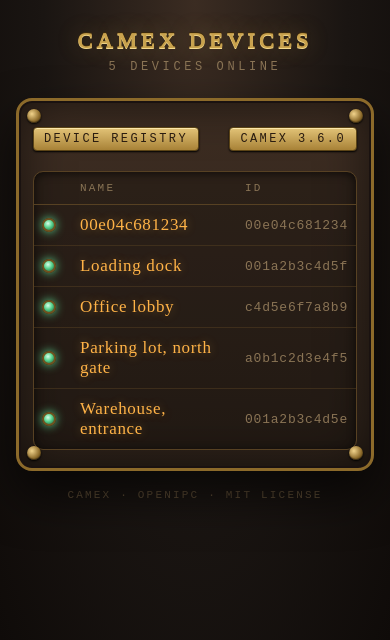
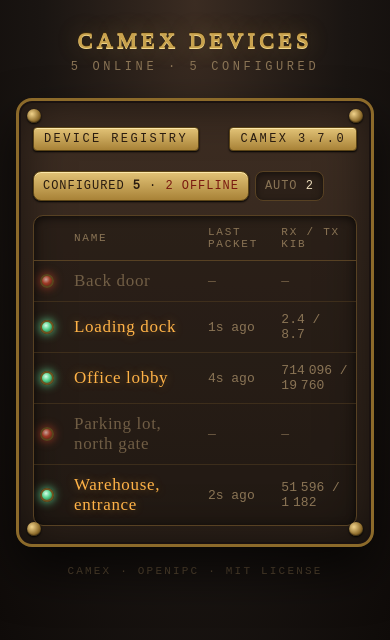
Start page details: docs, screenshots, 3.7.0 (#110)

diff --git a/src/version.h b/src/version.h
@@ -13,7 +13,7 @@
 #define CAMEX_VERSION_H
 
 #ifndef CAMEX_VERSION
-#define CAMEX_VERSION "3.6.0"
+#define CAMEX_VERSION "3.7.0"
 #endif
 
 #endif /* CAMEX_VERSION_H */

diff --git a/docs/nginx.md b/docs/nginx.md
@@ -227,11 +227,23 @@ map $host $camex_upstream {
 ## Start page
 
 `camex --status --format nginx-index --domain openipc.click` prints a static
-HTML page of the live cameras: one row each with its name, ID and tunnel
-address, the name linked to `//<camera ID>.openipc.click/` (no scheme, so the
-link works over HTTP and HTTPS alike).
+HTML page of the cameras in two lists, switched with the tabs at the top:
 
-| Desktop                                    | Phone (the address column is hidden)                        |
+- **Configured**: every `[client ID]` block in the server's file, connected or
+  not. A camera that is not connected has a red lamp and no link, so a missing
+  one shows at once; the tab counts them ("Configured 5 · 2 offline").
+- **Auto**: the connected cameras with no `[client ID]` block, which got their
+  address from the auto pool.
+
+Each row has the camera's name linked to `//<camera ID>.openipc.click/` (no
+scheme, so the link works over HTTP and HTTPS alike), its ID and tunnel
+address, and as in `camex --status`: **Connected** (how long it has been on
+this connection), **Last packet**, **Handshake** (how long ago, and how many
+it has had) and **RX / TX** in KiB. The page opens Configured when there are
+blocks in the file, Auto otherwise, and the browser remembers the tab chosen
+(the tabs work without JavaScript too).
+
+| Desktop                                    | Phone (fewer columns)                                       |
 |--------------------------------------------|-------------------------------------------------------------|
 | ![Start page](images/nginx-start-page.png) | ![Start page on a phone](images/nginx-start-page-phone.png) |
 
@@ -240,14 +252,16 @@ link works over HTTP and HTTPS alike).
   one is listed by its ID. A reload (`kill -HUP`) applies new names; the server
   refuses to load a file with a name that is not valid. `camex --status` shows
   the names in a NAME column, `--json` as `"name"`.
-- **Order**: by name (A–Z in any case alike), then by ID. The page holds no
-  time, so an unchanged state gives an identical file: the script replaces the
-  page only when cameras came, went or got another name, and nginx's
-  `Last-Modified` tells when that was. The page itself reloads every 30 seconds.
+- **Order**: by name (A–Z in any case alike), then by ID, connected or not, so
+  a camera keeps its place in the list.
+- **Freshness**: the ages and the traffic are those of the last sync (every 10
+  seconds with the example timer), and the page reloads itself every 30
+  seconds. The script replaces the page at every sync and logs only when the
+  number of cameras online changed.
 - **The same rules as the map**: IDs that are not a host name label are left
-  out with a warning, of an ID on two servers the lower address is kept, and
-  when a running server does not answer nothing is printed and the old page
-  stays.
+  out with a warning, of an ID on two servers the connected one (then the
+  lower address) is kept, and when a running server does not answer nothing
+  is printed and the old page stays.
 - **DNS and TLS**: the bare domain needs its own DNS record and must be in the
   certificate next to the wildcard (see [nginx](#nginx), steps 1 and 2).
 - **With the map**: the script builds the page before the map, so every device
@@ -261,9 +275,9 @@ link works over HTTP and HTTPS alike).
 - **Access**: the page lists every camera on the server. Let in only those who
   may open the cameras: the example's start page block has commented `allow` /
   `deny` and `auth_basic` lines.
-- The sync script needs a server of camex 3.6.0 or later for the page: an older
-  one answers the page's control command with an error, and the page is not
-  written (the map still is).
+- The sync script needs a server of camex 3.7.0 or later for the page: an older
+  one answers the page's control command (`CLIENTS INDEX`) with an error, and
+  the page is not written (the map still is).
 
 ## Checks
 

diff --git a/README.ru.md b/README.ru.md
@@ -413,12 +413,16 @@ map $host $camex_upstream {
   меняется, только когда клиенты приходят и уходят.
 - Настройки скрипта: `DOMAIN`, `UPSTREAM_PORT`, `DEFAULT`, `CONTROL`, `MAP`
   (`/etc/nginx/camex-map.conf`), `INDEX`, `CAMEX`, `NGINX_BIN`.
-- **Стартовая страница** (#105): `camex --status --format nginx-index --domain
-  openipc.click` печатает статическую HTML-страницу со всеми живыми
-  клиентами: имя и ссылка на `//<ID клиента>.openipc.click/`. Имя — это
+- **Стартовая страница** (#105, #110): `camex --status --format nginx-index
+  --domain openipc.click` печатает статическую HTML-страницу с клиентами на двух
+  вкладках: **Configured** — все блоки `[client ID]` из файла сервера, не
+  подключённые выделены красным, и **Auto** — подключённые клиенты из
+  автоматического пула. В строке — имя со ссылкой на
+  `//<ID клиента>.openipc.click/`, ID и адрес, сколько клиент на связи, когда
+  пришёл последний пакет, последнее рукопожатие и их число, RX / TX в КиБ. Имя — это
   `name=` в блоке `[client ID]` клиента на сервере (UTF-8, до 64 байт), а без
   него — ID; `--status` и `--json` тоже его показывают. С `INDEX=` скрипт
-  синхронизации пишет страницу, когда она изменилась, а второй блок `server` в
+  синхронизации пишет страницу при каждом запуске, а второй блок `server` в
   `examples/nginx-camex.conf` отдаёт её на голом домене
   (`http://openipc.click/`). На странице видны все устройства: ограничьте
   доступ к ней так же, как к камерам.

diff --git a/README.zh-CN.md b/README.zh-CN.md
@@ -394,11 +394,14 @@ map $host $camex_upstream {
   因此只有在客户端上线或离开时 map 才会变化。
 - 脚本的设置：`DOMAIN`、`UPSTREAM_PORT`、`DEFAULT`、`CONTROL`、`MAP`
   （`/etc/nginx/camex-map.conf`）、`INDEX`、`CAMEX`、`NGINX_BIN`。
-- **起始页**（#105）：`camex --status --format nginx-index --domain
-  openipc.click` 输出一个静态 HTML 页面，列出所有在线客户端：名称以及指向
-  `//<客户端 ID>.openipc.click/` 的链接。名称来自服务器上该客户端
+- **起始页**（#105、#110）：`camex --status --format nginx-index --domain
+  openipc.click` 输出一个静态 HTML 页面，客户端分两个标签页显示：**Configured**
+  列出服务器文件中所有 `[client ID]` 块，未连接的以红色标出；**Auto** 列出来自自动
+  地址池的已连接客户端。每行包含指向 `//<客户端 ID>.openipc.click/` 的名称链接、
+  ID 和地址、连接时长、最后一个数据包、最近一次握手及握手次数，以及以 KiB 为单位的
+  RX / TX。名称来自服务器上该客户端
   `[client ID]` 块中的 `name=`（UTF-8，最多 64 字节），没有时显示 ID；
-  `--status` 和 `--json` 也会显示它。设置 `INDEX=` 后，同步脚本会在页面变化时写入
+  `--status` 和 `--json` 也会显示它。设置 `INDEX=` 后，同步脚本每次运行都会写入
   页面，`examples/nginx-camex.conf` 的第二个 server 块在裸域名
   （`http://openipc.click/`）上提供该页面。页面列出所有设备：请像限制摄像机
   访问一样限制对它的访问。

diff --git a/CHANGELOG.md b/CHANGELOG.md
@@ -4,6 +4,24 @@ The version lives in `CAMEX_VERSION` in `src/version.h`. From 3.0.2 on, binaries
 published only as the [`latest`](https://github.com/OpenIPC/camex/releases/tag/latest)
 release, rebuilt from every push to `master`; this file is the change history.
 
+## 3.7.0 — 2026-10-25
+
+- nginx start page (#110): two tabs, **Configured** (every `[client ID]` block of the
+  server's file, connected or not; the offline ones with a red lamp and no link, counted
+  on the tab) and **Auto** (the connected clients from the auto pool), switched with CSS
+  and remembered by the browser. Each row adds, as in `camex --status`: how long the
+  client has been connected, its last packet, its last handshake and their number, and
+  RX / TX in KiB (thousands grouped). On a phone fewer columns are shown. Sorted by name
+  in both tabs, connected or not.
+- Control socket: a new `CLIENTS INDEX` command (one tab-separated record per live
+  client with its numbers, and per configured client that is not connected); `CLIENTS`
+  and `CLIENTS NAMES` are unchanged. `--format nginx-index` needs a 3.7.0 server.
+- `camex-nginx-sync.sh`: the page changes at every run now (ages, traffic); the log says
+  so only when the number of devices online changed.
+- Tests: unit tests of both tabs, offline rows, the values and malformed records; the
+  nginx e2e test checks an offline configured client, the tabs, the handshakes against
+  `--json`, and that the traffic on the page grows with pings.
+
 ## 3.6.0 — 2026-10-25
 
 - nginx start page (#105): `camex --status --format nginx-index [--domain …]` prints a

diff --git a/README.md b/README.md
@@ -411,12 +411,16 @@ map $host $camex_upstream {
   clients come and go.
 - Settings of the script: `DOMAIN`, `UPSTREAM_PORT`, `DEFAULT`, `CONTROL`, `MAP`
   (`/etc/nginx/camex-map.conf`), `INDEX`, `CAMEX`, `NGINX_BIN`.
-- **Start page** (#105): `camex --status --format nginx-index --domain
-  openipc.click` prints a static HTML page with every live client, its name
-  and a link to `//<client ID>.openipc.click/`. The name is `name=` in the
-  client's `[client ID]` block on the server (UTF-8, up to 64 bytes), or the ID
-  without one; `--status` and `--json` show it too. With `INDEX=` the sync
-  script writes the page when it changed, and the second server block of
+- **Start page** (#105, #110): `camex --status --format nginx-index --domain
+  openipc.click` prints a static HTML page of the clients in two tabs:
+  **Configured**, every `[client ID]` block of the server's file with the
+  offline ones in red, and **Auto**, the connected clients from the auto pool.
+  Each row has the name linked to `//<client ID>.openipc.click/`, the ID and
+  address, how long it has been connected, its last packet, its last handshake
+  and their number, and RX / TX in KiB. The name is `name=` in the client's
+  `[client ID]` block on the server (UTF-8, up to 64 bytes), or the ID without
+  one; `--status` and `--json` show it too. With `INDEX=` the sync
+  script writes the page at every run, and the second server block of
   `examples/nginx-camex.conf` serves it on the bare domain
   (`http://openipc.click/`). The page lists every device: limit who may open
   it as for the cameras.
